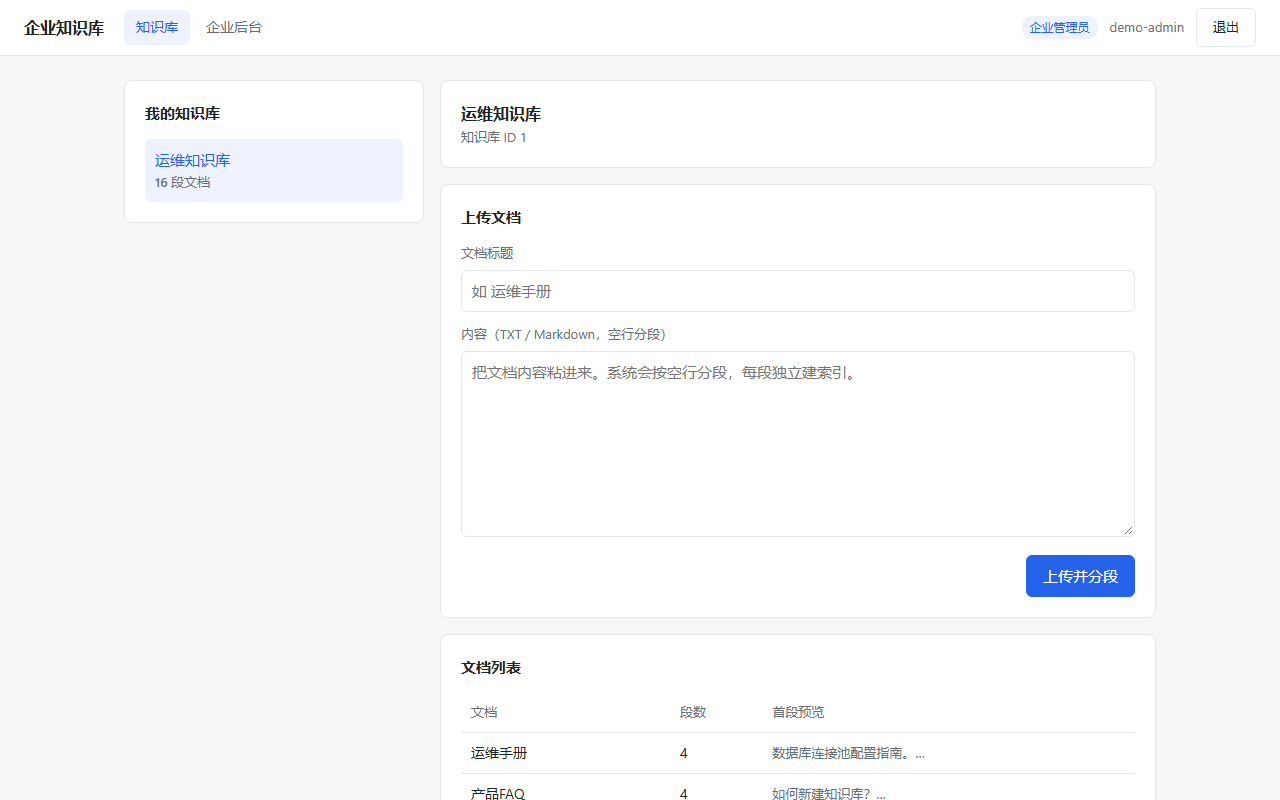
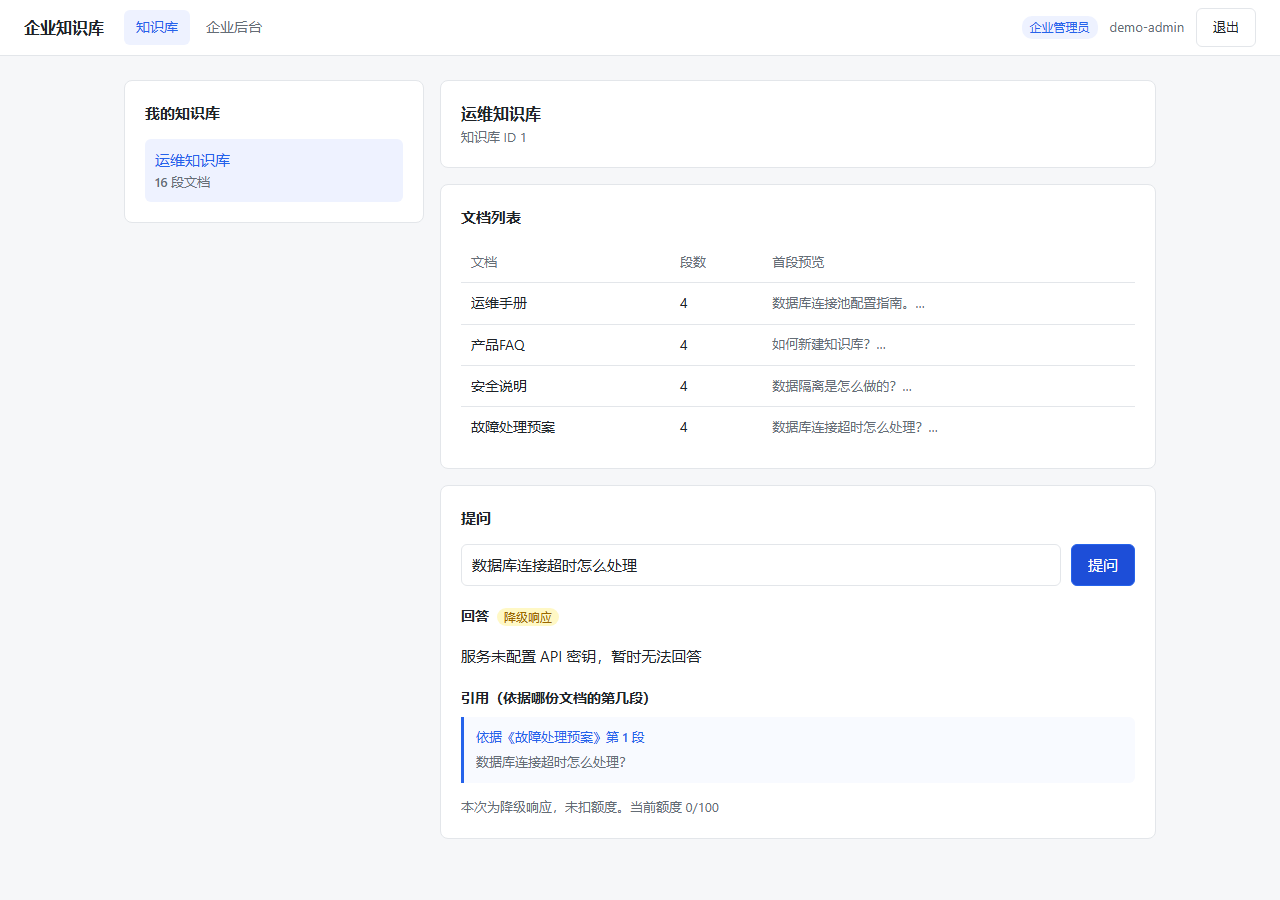
fix(docs): 重拍第 2 张截图，让引用卡片真正出现在图里
上一版 2-知识库问答.png 里只有上传区和文档列表上半部分，
问答区与引用卡片全被裁在视口外 —— 而这张图的意义就是展示
「依据《XX》第 N 段」，图里却没有。

根因：make_screenshots.py 截图前调了 window.scrollTo(0, 0)，
把页面滚回顶部；1280x800 的视口装不下「导航 → 库头 → 文档列表 →
提问 → 答案 → 引用」，后两块被切掉。

改法：
  · 视口 1280x900（不再调更高 —— 之前调高会触发截图超时）
  · 截图前隐藏「上传文档」块，把问答区提前
  · 去掉 scrollTo(0,0)
  · 🔴 截图前量 #answer / #refs .ref / #degraded-badge 的实际
    getBoundingClientRect，三者必须都落在视口内，否则拒绝出图
    （用几何断言，不是「元素存在」就算过）

结果（1280x900，49733 bytes）实测位置：
  answer top=643 bottom=669  视口内
  ref    top=717 bottom=783  视口内
  badge  top=604 bottom=628  视口内

新增 reshoot_kb.py：只重拍第 2 张，不碰另外 3 张。
make_screenshots.py 同步修好，避免重跑时覆盖回坏图。

测试：287 passed 不变

diff --git a/reshoot_kb.py b/reshoot_kb.py
@@ -1,0 +1,161 @@
+"""只重拍第 2 张「知识库问答」。
+
+## 为什么单独写一个脚本
+
+原来的 `make_screenshots.py` 一次拍 4 张，重跑会连带覆盖另外 3 张。
+这次只改第 2 张的取景，所以单独一个入口。
+
+## 上一版错在哪
+
+```python
+page.evaluate('window.scrollTo(0, 0)')   # ← 滚到顶部
+page.screenshot(...)                      # ← 问答区在下面被裁掉
+```
+
+1280x800 的视口里，页面从上到下是「导航 → 知识库头 → 上传区 → 文档列表 →
+提问区 → 答案 → 引用卡片」。滚到顶部 + 800 高，截到的只有前四块，
+**引用卡片根本不在图里** —— 而这张图的意义就是展示引用。
+
+## 这一版怎么取景
+
+1. 先隐藏「上传文档」块（用户已授权这个做法）
+2. 视口 1280x900（不再调高，上次调高导致截图超时）
+3. 提一个有答案的问题，等答案 + 引用渲染
+4. **量元素的实际位置**：答案正文、引用卡片、降级徽标三者必须都落在
+   视口内（bottom < innerHeight 且 top >= 0），否则滚动到刚好能装下
+5. 截图后打印三个元素的位置，人工复核有据可查
+"""
+import pathlib
+import sys
+
+ROOT = pathlib.Path(__file__).resolve().parent
+sys.path.insert(0, str(ROOT))
+
+OUT = ROOT / 'docs' / 'screenshots'
+BASE = 'http://127.0.0.1:5099'
+TARGET = OUT / '2-知识库问答.png'
+
+# 复用主脚本里的账号与文档，避免两处维护
+from make_screenshots import ACCOUNTS, seed_via_api  # noqa: E402
+
+
+def main():
+    try:
+        from playwright.sync_api import expect, sync_playwright
+    except ImportError:
+        print('❌ playwright 未安装（本脚本假定已装好）')
+        return 1
+
+    import requests
+
+    OUT.mkdir(parents=True, exist_ok=True)
+
+    session = requests.Session()
+    ids = seed_via_api(session)
+    print(f'演示数据就绪：租户 {ids["tenant_id"]} · 知识库 {ids["kb_id"]}')
+
+    with sync_playwright() as pw:
+        browser = pw.chromium.launch()
+        # 🔴 900 高，不再调高（上次调高触发截图超时）
+        ctx = browser.new_context(viewport={'width': 1280, 'height': 900})
+        page = ctx.new_page()
+
+        page.goto(f'{BASE}/login')
+        page.get_by_role('textbox', name='用户名', exact=True).fill(ACCOUNTS['admin'][0])
+        page.get_by_label('密码', exact=True).fill(ACCOUNTS['admin'][1])
+        page.get_by_role('button', name='登录', exact=True).click()
+        expect(page).to_have_url(f'{BASE}/kbs')
+
+        # 选知识库
+        page.locator('#kb-list > div').first.click()
+        expect(page.get_by_text('故障处理预案')).to_be_visible()
+
+        # ① 隐藏上传区（取景需要，用户已授权）
+        page.evaluate(
+            "document.getElementById('upload-card').classList.add('hidden')")
+
+        # ② 提一个**知识库里确实有答案**的问题
+        #    《故障处理预案》第 0 段就是「数据库连接超时怎么处理？」
+        page.locator('#question').fill('数据库连接超时怎么处理')
+        page.get_by_role('button', name='提问', exact=True).click()
+
+        # ③ 等答案 + 引用都渲染出来
+        expect(page.locator('#answer-box')).to_be_visible(timeout=20000)
+        expect(page.locator('#refs .ref').first).to_be_visible(timeout=20000)
+        page.wait_for_timeout(600)      # 等字体/布局稳定
+
+        answer_text = page.locator('#answer').inner_text()
+        ref_text = page.locator('#refs .ref .src').first.inner_text()
+        badge_text = page.locator('#degraded-badge').inner_text()
+        ref_count = page.locator('#refs .ref').count()
+
+        print(f'  答案正文：{answer_text[:50]}')
+        print(f'  引用卡片：{ref_text}')
+        print(f'  状态徽标：{badge_text or "(无)"}')
+        print(f'  引用条数：{ref_count}')
+
+        # ④ 🔴 量三个元素的实际位置，确保都在视口内
+        def boxes():
+            return page.evaluate("""() => {
+                const vh = window.innerHeight;
+                const pick = (sel) => {
+                    const el = document.querySelector(sel);
+                    if (!el) return null;
+                    const r = el.getBoundingClientRect();
+                    return {top: Math.round(r.top), bottom: Math.round(r.bottom),
+                            visible: r.top >= 0 && r.bottom <= vh};
+                };
+                return {
+                    viewportH: vh,
+                    scrollY: Math.round(window.scrollY),
+                    docH: Math.round(document.documentElement.scrollHeight),
+                    answer: pick('#answer'),
+                    ref: pick('#refs .ref'),
+                    badge: pick('#degraded-badge'),
+                };
+            }""")
+
+        info = boxes()
+        targets = ['answer', 'ref', 'badge']
+        need_scroll = any(
+            info[k] is None or not info[k]['visible'] for k in targets
+        )
+
+        if need_scroll:
+            # 滚到「刚好能让引用卡片底部露出一小节」的位置：
+            # 让 #answer-box 的底边落在视口底部上方 40px
+            page.evaluate("""() => {
+                const box = document.getElementById('answer-box');
+                const r = box.getBoundingClientRect();
+                const target = window.scrollY + r.bottom - window.innerHeight + 40;
+                window.scrollTo(0, Math.max(0, target));
+            }""")
+            page.wait_for_timeout(500)
+            info = boxes()
+            print('  （已滚动到问答区）')
+
+        print(f'  视口高 {info["viewportH"]} · 文档高 {info["docH"]} · '
+              f'scrollY {info["scrollY"]}')
+        for k in targets:
+            b = info[k]
+            state = '视口内' if b and b['visible'] else '🔴 不可见'
+            print(f'    {k:<7} top={b["top"] if b else "-":>5} '
+                  f'bottom={b["bottom"] if b else "-":>5}  {state}')
+
+        missing = [k for k in targets
+                   if info[k] is None or not info[k]['visible']]
+        if missing:
+            print(f'❌ 这些元素没进视口，拒绝截图：{missing}')
+            browser.close()
+            return 1
+
+        page.screenshot(path=TARGET, full_page=False)
+        browser.close()
+
+    size = TARGET.stat().st_size
+    print(f'\n✅ 已重拍：{TARGET.name}  {size} bytes')
+    return 0
+
+
+if __name__ == '__main__':
+    sys.exit(main())

diff --git a/make_screenshots.py b/make_screenshots.py
@@ -144,8 +144,35 @@ def main():
         assert '段' in ref_text, f'引用没标到第几段：{ref_text}'
         print(f'     引用卡片：{ref_text}')
 
-        page.evaluate('window.scrollTo(0, 0)')
-        page.wait_for_timeout(400)
+        # 🔴 取景：视口要够高把「答案 + 引用卡片」一起装进来。
+        #
+        #    之前的写法是 scrollTo(0,0) + 800 高 —— 滚到顶部后
+        #    问答区掉在视口下方被裁掉，截出来的图里**没有引用卡片**，
+        #    而这张图的意义就是展示引用。
+        #    900 高时整页正好装下（实测 docH = viewportH = 900）。
+        page.set_viewport_size({'width': 1280, 'height': 900})
+        page.wait_for_timeout(500)
+
+        # 量三个关键元素是否真的在视口内，不在就拒绝出图
+        geo = page.evaluate("""() => {
+            const vh = window.innerHeight;
+            const pick = (sel) => {
+                const el = document.querySelector(sel);
+                if (!el) return null;
+                const r = el.getBoundingClientRect();
+                return {top: Math.round(r.top), bottom: Math.round(r.bottom),
+                        visible: r.top >= 0 && r.bottom <= vh};
+            };
+            return {vh, answer: pick('#answer'), ref: pick('#refs .ref'),
+                    badge: pick('#degraded-badge')};
+        }""")
+        hidden = [k for k in ('answer', 'ref', 'badge')
+                  if geo[k] is None or not geo[k]['visible']]
+        assert not hidden, f'🔴 取景失败，这些元素不在视口内：{hidden}'
+        print(f'     取景 OK（视口 {geo["vh"]}）：'
+              f'answer top={geo["answer"]["top"]} · '
+              f'ref top={geo["ref"]["top"]}')
+
         page.screenshot(path=OUT / '2-知识库问答.png')
         shots.append('2-知识库问答.png')
         print('  ✅ 2 知识库问答')

diff --git a/docs/截图说明.md b/docs/截图说明.md
@@ -9,6 +9,7 @@
 ```bash
 python app.py                # 起服务（5099）
 python make_screenshots.py   # 自动灌数据 + 截图 4 张
+python reshoot_kb.py         # 只重拍第 2 张（改了取景参数时用）
 ```
 
 ---
@@ -31,6 +32,9 @@ python make_screenshots.py   # 自动灌数据 + 截图 4 张
 ## 2 · 知识库问答（核心页）
 
 ![知识库问答](screenshots/2-知识库问答.png)
+
+> 1280x900。视口取 900 是为了把「答案 + 引用卡片」一起装进一屏 —— 800 高时引用卡片会掉到视口外，截出来只剩文档列表。
+> 单独重拍用 `python reshoot_kb.py`（只动这张，不碰另外 3 张）。
 
 **这一张就是整个项目的卖点**：
 
